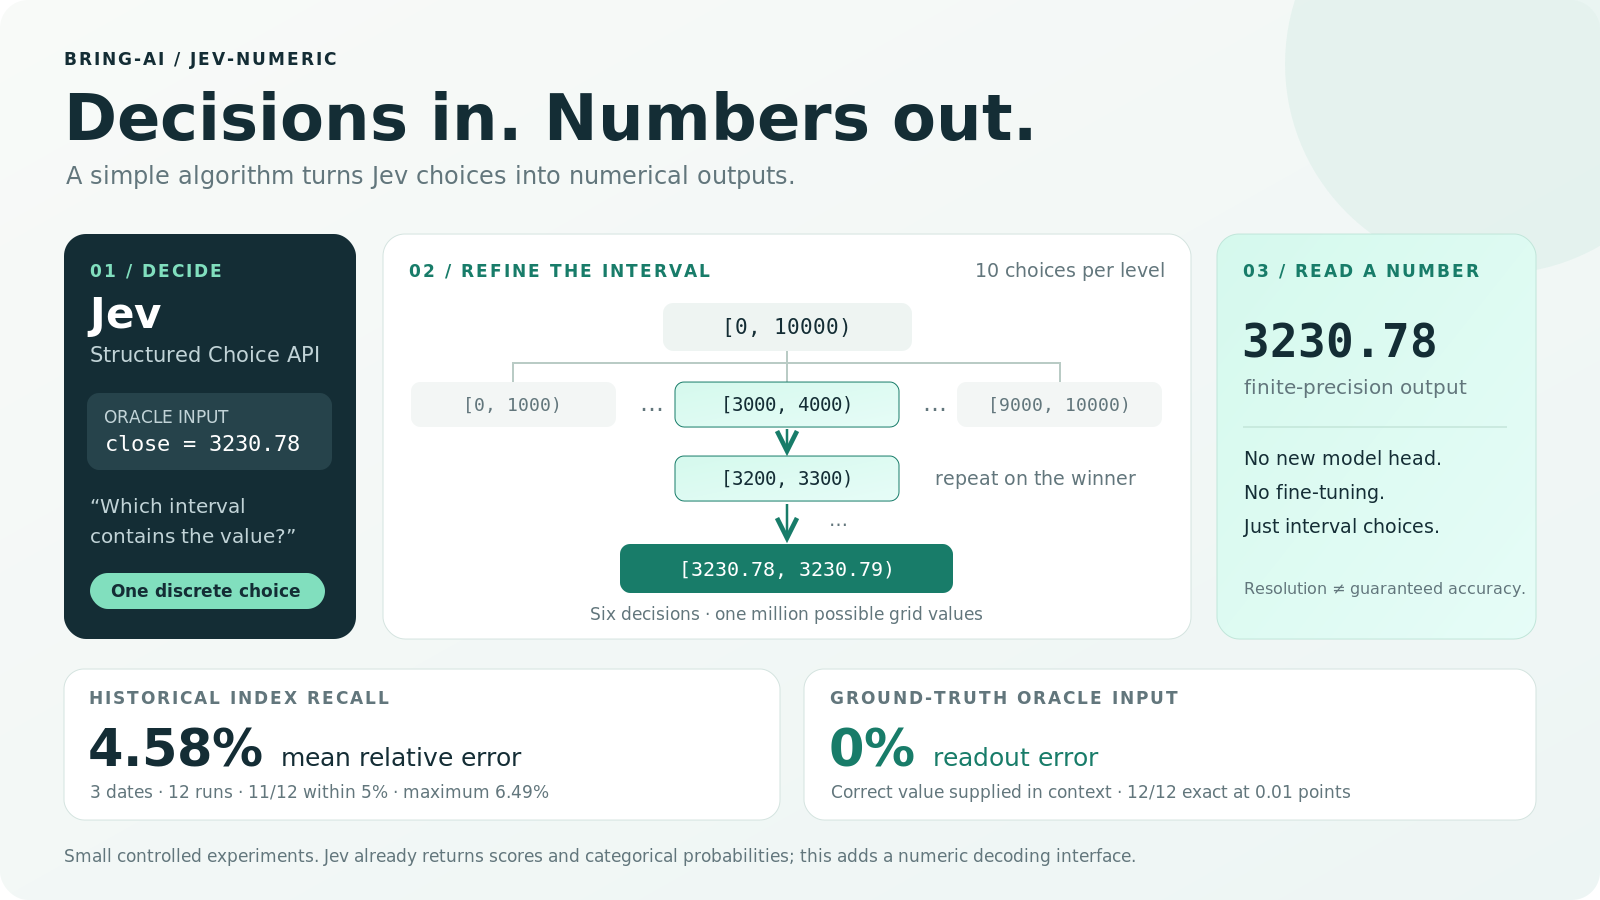
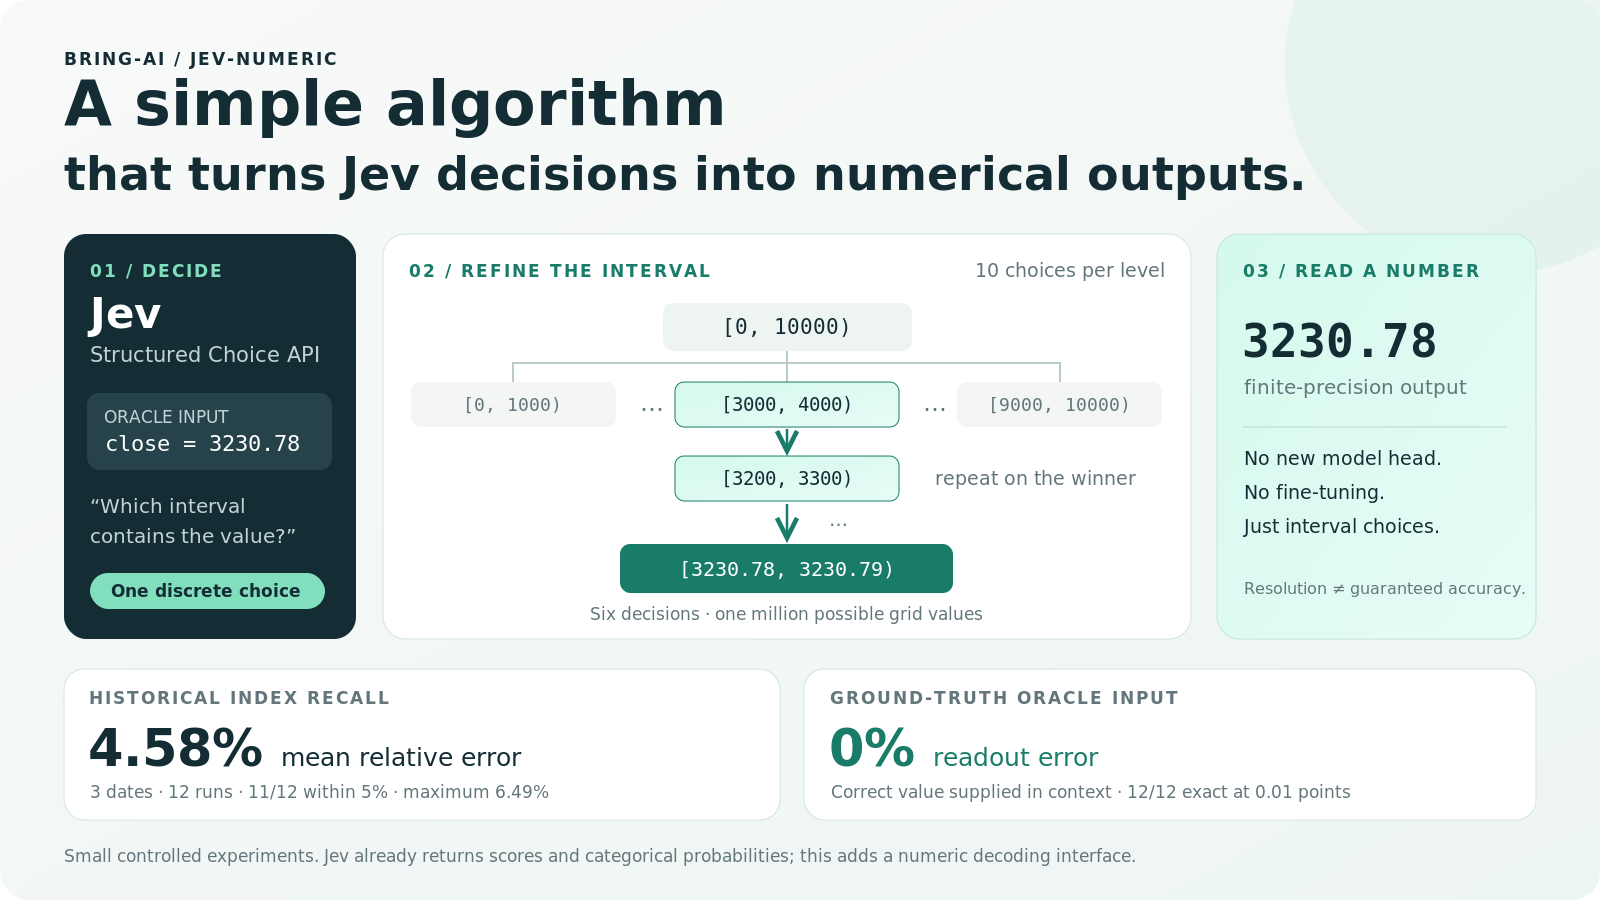
Lead with the simple algorithm in the hero and README titles

Changed region(s): [[0.0312, 0.0933, 0.8125, 0.2178]]

diff --git a/README.md b/README.md
@@ -2,8 +2,8 @@
   <img src="assets/hero.svg" alt="Jev Numeric: decisions become numerical outputs through a multiway interval tree" width="100%">
 </p>
 
-<h1 align="center">Jev Numeric</h1>
-<p align="center"><strong>A simple algorithm that turns Jev decisions into numerical outputs.</strong></p>
+<h1 align="center">A simple algorithm that turns Jev decisions into numerical outputs.</h1>
+<p align="center"><strong>Jev Numeric · Multiway interval decoding</strong></p>
 <p align="center">Exploring numerical output with Jev through discrete choices and hierarchical interval decoding.</p>
 <p align="center">
   <a href="README.zh-CN.md">中文</a> ·

diff --git a/README.zh-CN.md b/README.zh-CN.md
@@ -1,6 +1,6 @@
 <p align="center"><img src="assets/hero.svg" alt="Jev 决策通过多叉区间树转化为数值输出" width="100%"></p>
 
-<h1 align="center">Jev Numeric</h1>
+<h1 align="center">A simple algorithm that turns Jev decisions into numerical outputs.</h1>
 <p align="center"><strong>一个简单算法，把 Jev 的离散决策变成数值输出。</strong></p>
 <p align="center"><a href="README.md">English</a> · <a href="#实测结果">实测结果</a> · <a href="#快速开始">快速开始</a> · <a href="artifacts/metrics.json">可核对的指标</a></p>
 
